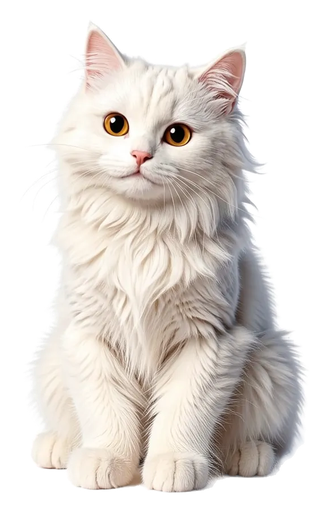
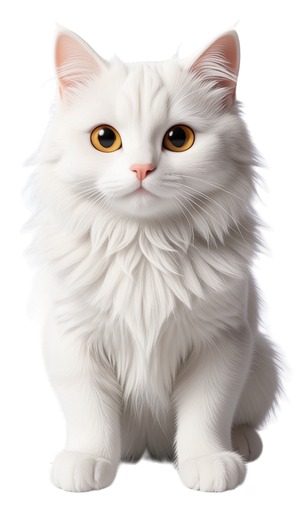
fix: 밀크 그림을 다섯째 후보(내 컴퓨터에서 그린 흰 고양이)로 바꾼다
밝은 회색 바탕 그림을 같은 파이프라인(IS-Net 1024 letterbox, outputToMask, dropFaint, defringe)으로 오려 긴 변 512.
어두운, 밝은 바탕에서 회색 테두리 없이 털 끝이 부드럽고 발이 남는 것을 앱에서 확인했다.

Claude-Session: https://claude.ai/code/session_01EZS11RqVcC5rA27WX3hdyu

diff --git a/CHANGELOG.md b/CHANGELOG.md
@@ -26,7 +26,7 @@
 - 설정 창을 탭 여섯으로 나눴다: 펫, 비서(말풍선과 알림, 만나는 시간, 회고, 캘린더), AI(규칙, 기억, 모델, MCP), 편의(단축키, 언어, 시작), 데이터(백업, 저장 공간), 정보(업데이트, 내 기록). 좁은 창은 위 가로 탭, 넓은 창은 왼쪽 목록. ← → 키, Cmd/Ctrl+[ ] 와 1~6 으로 옮긴다. 찾기는 모든 탭에서 찾아 탭마다 맞은 칸 수를 보이고, 메뉴 막대 "의견 보내기"는 정보 탭의 내 기록으로 바로 간다. 다시 열면 지난번 탭으로 (앱을 켜 둔 동안). 큰 파일은 탭마다 나눴다 (`settings/tabs/`)
 - 패널 여는 단축키 Cmd/Ctrl+Option/Alt+Shift+T: 어디서나 패널을 열고 닫는다. 설정에서 바꾸거나 끌 수 있고, 메뉴 막대 메뉴와 첫 안내에 보인다. 이미 그 키를 다른 단축키로 쓰고 있었으면 패널 키만 비워 둔다
 - 의견 보내기에 진단 기록 붙이기: 설정의 내 기록 칸에서 "진단 기록도 같이 붙이기"를 켜면 최근 기록(끝 200줄, 64KB 이하)을 베타 기록과 함께 미리 보여 주고, 보이는 글 그대로 복사하거나 .txt 로 저장한다. 메인에서 먼저 가린다: 홈 폴더와 사용자, 컴퓨터 이름, 이메일, 주소 쿼리와 아이디:비번, 캘린더 주소 경로, 토큰과 비밀 값, IP, 혹시 섞인 할 일, 일정, 메모 제목과 펫 기억 글. "GitHub에 문제 알리기"는 판과 운영체제만 채운 새 이슈 화면을 연다(기록은 주소에 넣지 않는다). 사용자 AI 를 더할 때 기록에 사용자가 지은 이름 대신 id 를 남긴다
-- 그림 친구 밀크(Milk)와 초코(Choco): 긴 털 흰 고양이 밀크와 곱슬 털 갈색 푸들 초코를 기본 캐릭터로 넣었다. 앱의 AI 일러스트로 그리고 앱과 같은 배경 지우기(IS-Net, 가장자리 바탕색 빼기)로 오린 그림(`resources/pets/`)이다. 설정의 펫 고르기와 첫 안내 모습 칸에 작은 그림과 함께 보이고, 고르면 그림을 사용자 데이터 `pets/` 에 복사해 사진 펫으로 둔다 (이름은 밀크, 초코, 어른). 그 뒤로는 사진 펫과 똑같다: 얼굴 아이콘, 포즈, 입체 피규어를 나중에 만들 수 있다. 지금 사진 펫은 보관함에 들어가고, 손대지 않은 밀크, 초코는 보관하지 않고 다시 고르면 새로 복사한다 (이름을 바꾸거나 입체를 만든 것은 보관했다가 그 캐릭터를 다시 고르면 꺼낸다). 코드로 그리는 기본 펫 이름은 그대로 냥이(Kitty), 멍멍이(Buddy)이고 첫 펫은 그대로 콩이다
+- 그림 친구 밀크(Milk)와 초코(Choco): 긴 털 흰 고양이 밀크와 곱슬 털 갈색 푸들 초코를 기본 캐릭터로 넣었다. 앱의 AI 일러스트로 그리고(밀크는 내 컴퓨터에서 그리기) 앱과 같은 배경 지우기(IS-Net, 가장자리 바탕색 빼기)로 오린 그림(`resources/pets/`)이다. 설정의 펫 고르기와 첫 안내 모습 칸에 작은 그림과 함께 보이고, 고르면 그림을 사용자 데이터 `pets/` 에 복사해 사진 펫으로 둔다 (이름은 밀크, 초코, 어른). 그 뒤로는 사진 펫과 똑같다: 얼굴 아이콘, 포즈, 입체 피규어를 나중에 만들 수 있다. 지금 사진 펫은 보관함에 들어가고, 손대지 않은 밀크, 초코는 보관하지 않고 다시 고르면 새로 복사한다 (이름을 바꾸거나 입체를 만든 것은 보관했다가 그 캐릭터를 다시 고르면 꺼낸다). 코드로 그리는 기본 펫 이름은 그대로 냥이(Kitty), 멍멍이(Buddy)이고 첫 펫은 그대로 콩이다
 - 할 일 단계 (저장 파일 9판): 할 일마다 작은 단계를 30개까지 적고 하나씩 체크한다. 줄 끝에 진행(1/3), 다 하면 "할 일도 끝낼까?". 목록을 붙여 넣으면 줄마다 단계 하나(한 번에 넣는다). 반복 할 일은 다음 회차에 단계를 안 한 채로 옮긴다. 단계에는 코인이 없다. 오늘 탭 다음 할 일에 다음 단계를 보인다
 - 할 일 찾기와 태그: 제목 속 "#회사" 가 태그 칩이 되어 눌러 좁혀 본다. 할 일이 6개 넘으면 돋보기(Ctrl/Cmd+F)로 제목과 단계에서 찾는다
 - 지난 마감 오늘로: 오늘 탭 마감 머리말 링크와 아침 브리핑 단추. 되돌리기는 그사이 끝냈거나 마감을 바꾼 것은 두고 한다
